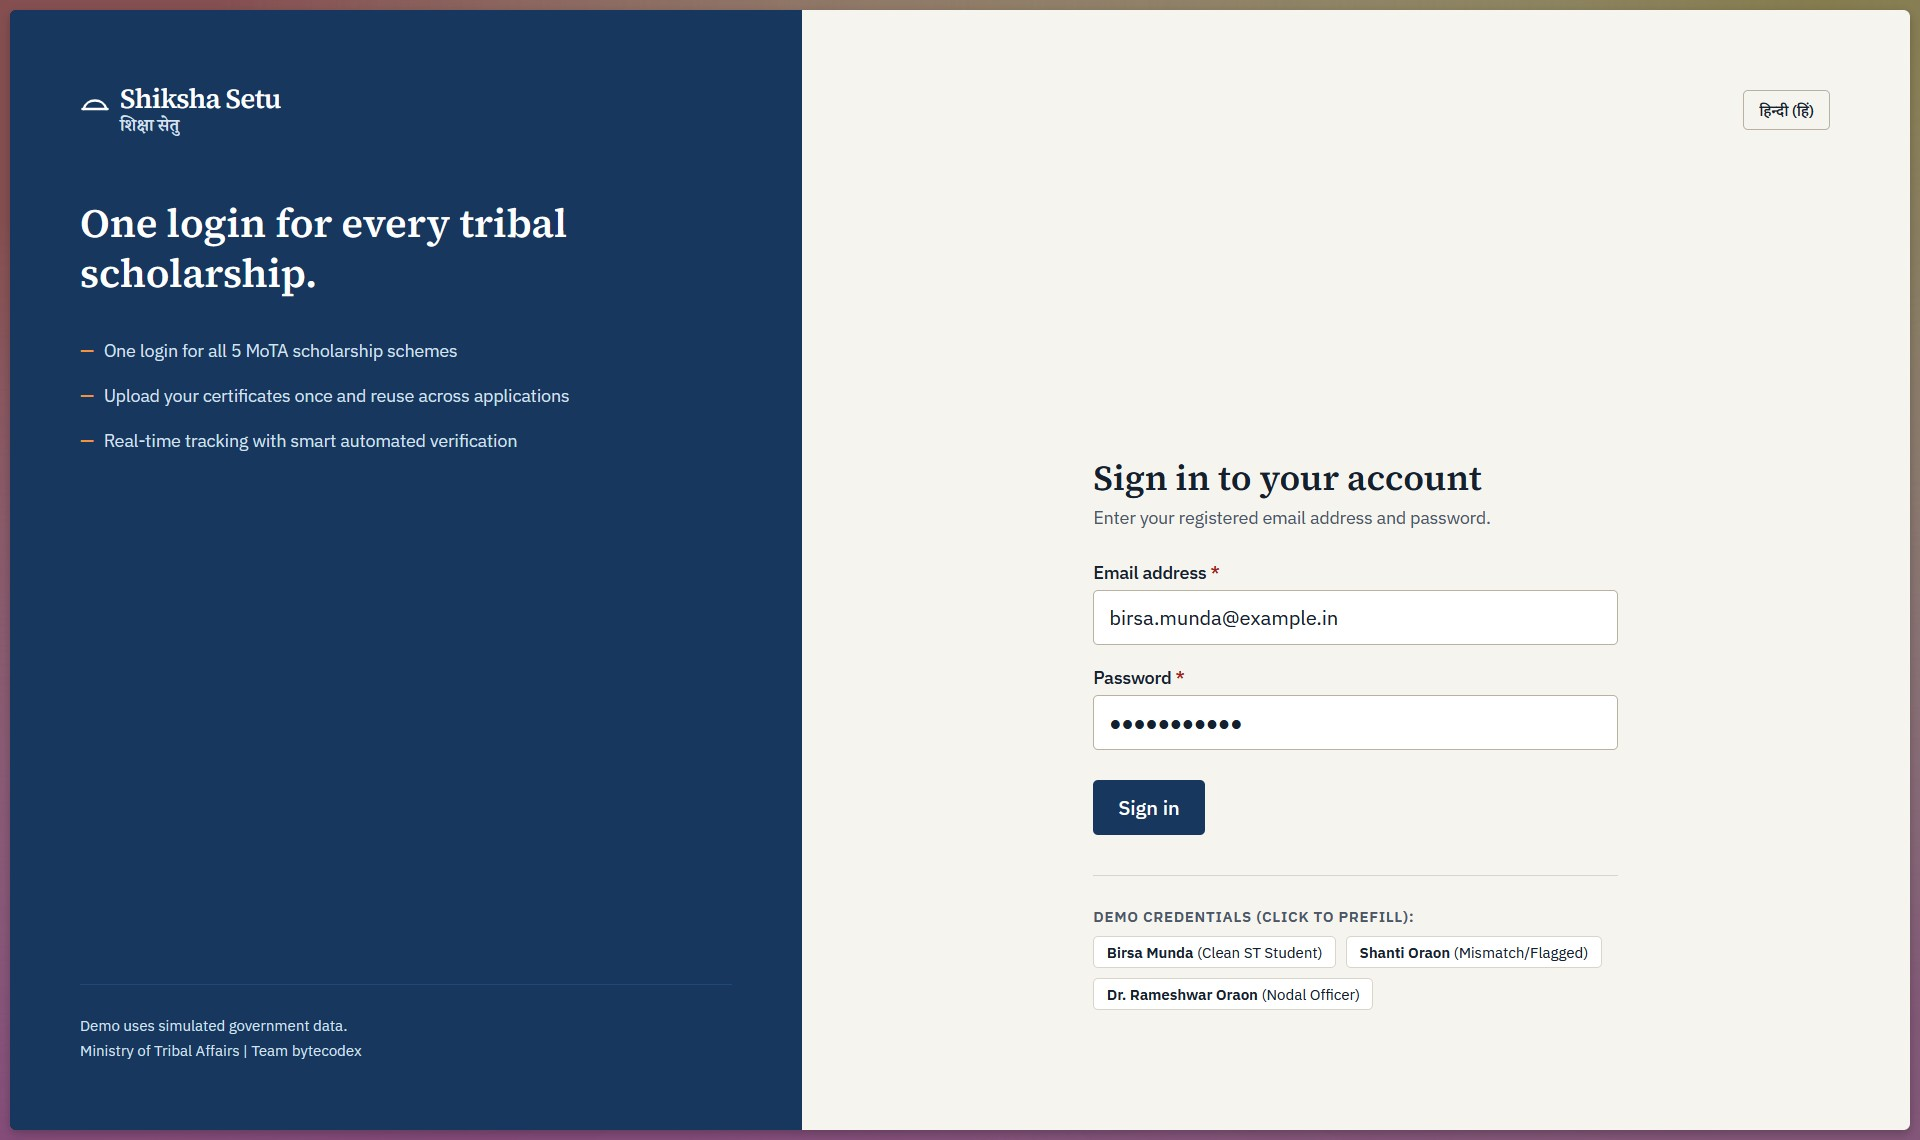
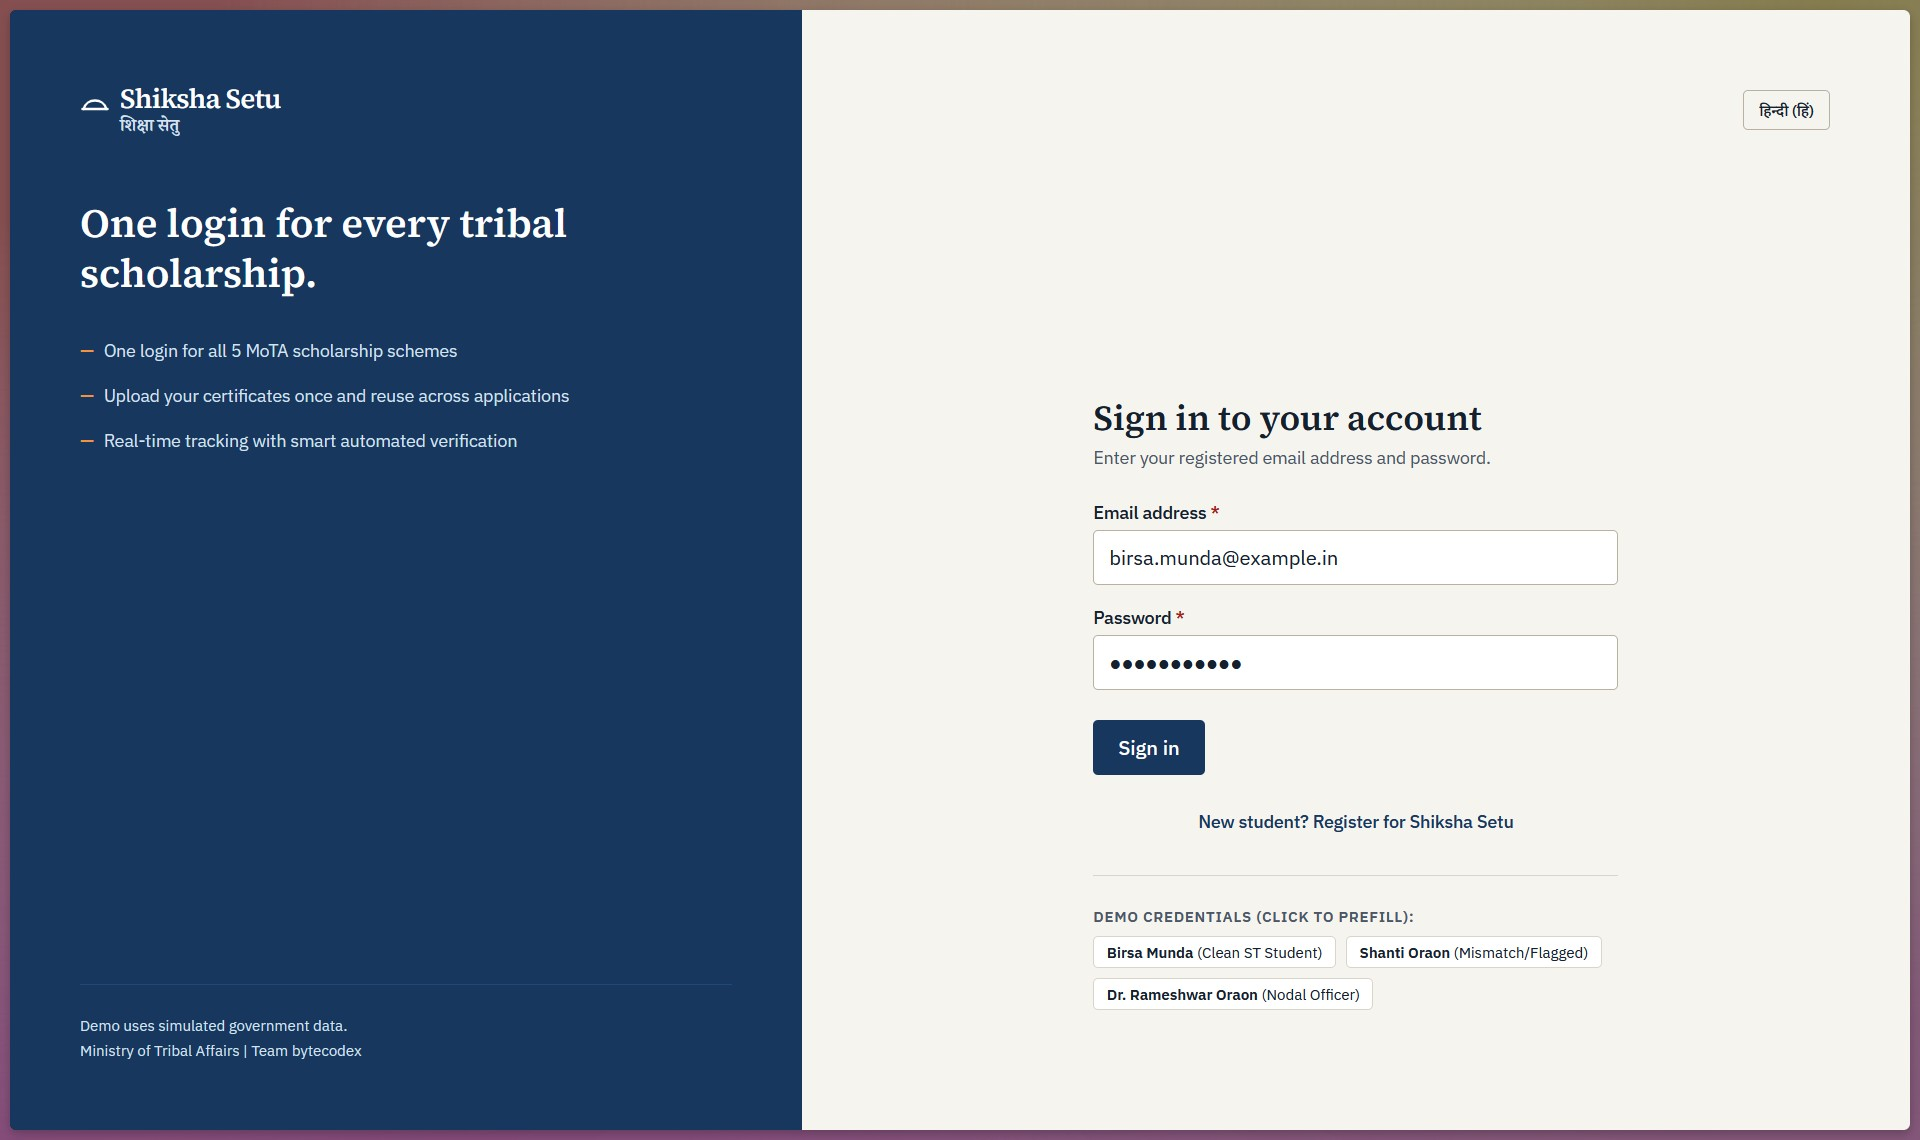
Updated markdowns

Changed region(s): [[0.5625, 0.3377, 0.7812, 0.7368]]

diff --git a/docs/TECHNICAL_DESIGN.md b/docs/TECHNICAL_DESIGN.md
@@ -91,7 +91,8 @@ flowchart TD
     AttachDocs --> Submit["Student Confirms & Submits"]
     
     Submit --> ConsentCheck{"Citizen Consent Active?"}
-    ConsentCheck -- "No" --> PromptConsent["Student Grants Explicit DPDP Consent"] --> AdapterChecks
+    ConsentCheck -- "No" --> PromptConsent["Student Grants Explicit DPDP Consent"]
+    PromptConsent --> AdapterChecks
     ConsentCheck -- "Yes" --> AdapterChecks["Run Multi-Point Smart Auto-Verification"]
     
     subgraph Verification ["Smart Verification Layer"]
@@ -101,7 +102,10 @@ flowchart TD
         AdapterChecks --> V4["NPCI / Bank (Aadhaar Seeding)"]
     end
 
-    V1 & V2 & V3 & V4 --> EvaluateResults{"Any Data Discrepancies?"}
+    V1 --> EvaluateResults{"Any Data Discrepancies?"}
+    V2 --> EvaluateResults
+    V3 --> EvaluateResults
+    V4 --> EvaluateResults
     
     EvaluateResults -- "No (All Pass)" --> StatusVerified["Status: VERIFIED"]
     StatusVerified --> SanctionSim["Auto-approved for Sanction"]
@@ -147,12 +151,12 @@ erDiagram
 
     User {
         ObjectId _id PK
-        string role "student | officer"
+        string role "student, officer"
         string name
         string email UK
         string mobile
         string passwordHash
-        string language "en | hi"
+        string language "en, hi"
         Date createdAt
     }
 
@@ -177,12 +181,12 @@ erDiagram
     Document {
         ObjectId _id PK
         ObjectId userId FK
-        string type "st_certificate | income_cert | marksheet"
+        string type "st_certificate, income_cert, marksheet"
         string originalName
         string storedPath
         boolean encrypted
-        string status "PENDING | VERIFIED | FLAGGED | EXPIRED"
-        string source "STUDENT_UPLOAD | MOCK_DIGILOCKER"
+        string status "PENDING, VERIFIED, FLAGGED, EXPIRED"
+        string source "STUDENT_UPLOAD, MOCK_DIGILOCKER"
         Date uploadedAt
         Date expiresAt
     }
@@ -192,10 +196,10 @@ erDiagram
         string code UK
         string name
         string nameHi
-        string level "Pre-Matric | Post-Matric | Higher Education | Overseas"
+        string level "Pre-Matric, Post-Matric, Higher Ed, Overseas"
         object eligibilityRules
         array requiredDocs
-        string sourcePortal "NSP | SFMP | NOS"
+        string sourcePortal "NSP, SFMP, NOS"
         boolean sample
     }
 
@@ -204,7 +208,7 @@ erDiagram
         string applicationNumber UK
         ObjectId userId FK
         string schemeCode FK
-        string status "DRAFT..DISBURSED_SIMULATED"
+        string status "DRAFT to DISBURSED_SIMULATED"
         object prefilled
         array attachedDocs
         array mismatches
@@ -216,8 +220,8 @@ erDiagram
     VerificationResult {
         ObjectId _id PK
         ObjectId applicationId FK
-        string source "MOCK_DIGILOCKER | MOCK_UDISE.."
-        string status "PASS | MISMATCH | ERROR"
+        string source "MOCK_DIGILOCKER, MOCK_UDISE"
+        string status "PASS, MISMATCH, or ERROR"
         object details
     }
 
@@ -244,7 +248,7 @@ erDiagram
     KnowledgeDoc {
         ObjectId _id PK
         string title
-        string language "en | hi"
+        string language "en, hi"
         string text
         array tags
         string schemeCode
@@ -253,7 +257,7 @@ erDiagram
     Notification {
         ObjectId _id PK
         ObjectId userId FK
-        string type "STATUS_CHANGE | DEFICIENCY | SANCTION | DEADLINE"
+        string type "STATUS_CHANGE, DEFICIENCY, SANCTION, DEADLINE"
         string title
         string message
         string messageHi
@@ -265,8 +269,8 @@ erDiagram
     AuditLog {
         ObjectId _id PK
         ObjectId actorId FK
-        string action "AUTH_LOGIN | SUBMIT_APPLICATION | OFFICER_DECISION"
-        string entity "User | Document | Application"
+        string action "AUTH_LOGIN, SUBMIT_APPLICATION, OFFICER_DECISION"
+        string entity "User, Document, Application"
         string entityId
         object meta
         Date at

diff --git a/docs/DEMO.md b/docs/DEMO.md
@@ -16,22 +16,26 @@ This script provides evaluators and judges with a concise, 5-minute step-by-step
 
 ## 5-Minute Walkthrough Flow
 
-### Minute 1: The Problem & The Unified Student Login
+### Minute 1: The Problem & The Unified Student Access
 1. Open the application at `http://localhost:3000`.
 2. Point out the calm, trustworthy government aesthetic (PART B compliant, zero gradients, typographic bridge glyph wordmark).
 3. Toggle the language switch at the top right from **English** to **हिन्दी** to show native bilingual localization without Latin remnants.
-4. Click the prefill button for **Birsa Munda** (`birsa.munda@example.in`) and click **Sign in**.
-5. Observe the Student Home:
+4. *(Optional Walkthrough)*: Click **"New student? Register here"** to demonstrate the self-service student onboarding form (`/register`) capturing academic, demographic, UDISE+, and APAAR identity fields.
+5. Click the prefill button for **Birsa Munda** (`birsa.munda@example.in`) and click **Sign in**.
+6. Observe the Student Home:
    - Plain summary sentence: *"X applications in progress, Y need your action, Z schemes you may be eligible for."*
    - Expand the application row to see the **5-stage progress Stepper** with square markers (Submitted → Verification → Review → Sanction → Payment).
    - Point out the **Scheme Conflict Warning** (*"Cannot be held together with Post-Matric, sample rule"*).
 
-### Minute 2: Document Wallet & Reusability
-1. Navigate to **Documents** in the navigation bar.
-2. Observe the verified documents in the wallet (`st_certificate`, `income_certificate`, `marksheet`).
-3. Note that certificates are encrypted on disk with **AES-256-GCM**.
-4. Click **View** on any document to test inline decrypted viewing.
-5. Emphasize: *"Tribal students upload documents once and reuse them across all 5 MoTA scholarship portals."*
+### Minute 2: Document Wallet & Verified Student Profile
+1. Navigate to **Documents** in the navigation bar:
+   - Observe the verified documents in the wallet (`st_certificate`, `income_certificate`, `marksheet`).
+   - Note that certificates are encrypted on disk with **AES-256-GCM**.
+   - Click **View** on any document to test inline decrypted viewing.
+   - Emphasize: *"Tribal students upload documents once and reuse them across all 5 MoTA scholarship portals."*
+2. Navigate to **Profile** (`/profile`):
+   - Review live simulated government registry status badges: **DigiLocker** (Caste), **e-District** (Income), **UDISE+** (Enrolment), and **PFMS** (Aadhaar-seeded bank account).
+   - Students can update their academic details directly with immediate audit logging.
 
 ### Minute 3: Smart Verification & Non-Destructive Flagging
 1. Log out and sign in as **Shanti Oraon** (`shanti.oraon@example.in`).

diff --git a/README.md b/README.md
@@ -21,6 +21,10 @@
 |---|---|
 | ![Student Dashboard English](./docs/screenshots/Student-home-english.jpg) | ![Student Dashboard Hindi](./docs/screenshots/Student-home-hindi.jpg) |
 
+| Student Registration & Onboarding | Student Profile (Simulated Registries) |
+|---|---|
+| ![Student Registration](./docs/screenshots/Shiksha-setu-register-page.jpg) | ![Student Profile](./docs/screenshots/Student-profile-page.jpg) |
+
 | Smart Verification (Non-Destructive Flagging) | Document Wallet (AES-256-GCM Encrypted) |
 |---|---|
 | ![Application Flagged Review](./docs/screenshots/Student-application-flagged.jpg) | ![Document Wallet](./docs/screenshots/Student-documents-page.jpg) |
@@ -33,7 +37,7 @@
 |---|---|
 | ![JAGO AI Assistant](./docs/screenshots/Student-jago-ai.jpg) | ![Officer Analytics](./docs/screenshots/Officer-analytics-page.jpg) |
 
-> 📁 *All 13 high-resolution screen captures are available in the **[`docs/screenshots/`](./docs/screenshots/)** directory.*
+> 📁 *All 15 high-resolution screen captures are available in the **[`docs/screenshots/`](./docs/screenshots/)** directory.*
 
 ---
 
@@ -159,8 +163,8 @@ shiksha-setu/
 │   │   ├── components/         # TopBar, StudentNav, OfficerSidebar, OfflineBanner
 │   │   ├── context/            # AuthContext (stateless JWT session state)
 │   │   ├── i18n/               # Complete English & Hindi dictionary mappings
-│   │   ├── pages/              # StudentHome, SchemesDirectory, SchemeApply, Wallet,
-│   │   │                       # OfficerQueue, CoverageGapFinder, OfficerAnalytics, Login
+│   │   ├── pages/              # StudentHome, SchemesDirectory, SchemeApply, Wallet, Profile,
+│   │   │                       # OfficerQueue, CoverageGapFinder, OfficerAnalytics, Login, Register
 │   │   ├── services/           # api.js (Axios/fetch client)
 │   │   ├── ui/                 # Accessible UI components (Badge, Button, Stepper, JagoPanel)
 │   │   ├── App.jsx             # Role-based route definitions and layouts

diff --git a/docs/API.md b/docs/API.md
@@ -72,6 +72,27 @@ Authenticates with email and password, returning a JWT token.
 Retrieves current authenticated session user and profile.
 - **Access:** Authenticated (`student` or `officer`)
 
+### `PUT /auth/profile`
+Updates the authenticated student's profile details (institution, course, year, state, district, income, bank reference, etc.).
+- **Access:** Student only
+- **Request Body:** Partial or complete `StudentProfile` fields (e.g. `{ "institution": "Birsa Institute of Tech", "year": 3, "familyIncome": 160000 }`)
+- **Response `200 OK`:**
+```json
+{
+  "success": true,
+  "data": {
+    "profile": {
+      "_id": "673f8a...",
+      "userId": "673f8a...",
+      "fullName": "Birsa Munda",
+      "institution": "Birsa Institute of Tech",
+      "year": 3,
+      "familyIncome": 160000
+    }
+  }
+}
+```
+
 ---
 
 ## 2. Digital Document Wallet Endpoints
@@ -213,3 +234,38 @@ Answers citizen queries regarding eligibility, application tracking, and documen
 }
 ```
 *(Contains prompt injection defenses; queries restricted strictly to authenticated student's data).*
+
+---
+
+## 7. Notification Endpoints
+
+### `GET /notifications`
+Retrieves in-app status updates, deficiency alerts, and sanction notices for the authenticated user, along with the unread count.
+- **Access:** Authenticated
+- **Response `200 OK`:**
+```json
+{
+  "success": true,
+  "data": {
+    "notifications": [
+      {
+        "_id": "673f...",
+        "type": "STATUS_CHANGE",
+        "title": "Application Under Review",
+        "message": "Your application MOTA-2026-10001 has been flagged for empathetic manual review.",
+        "readAt": null,
+        "createdAt": "2026-10-21T06:00:00.000Z"
+      }
+    ],
+    "unreadCount": 1
+  }
+}
+```
+
+### `PATCH /notifications/:id/read`
+Marks a single notification as read.
+- **Access:** Authenticated
+
+### `PATCH /notifications/read-all`
+Marks all notifications as read for the authenticated user.
+- **Access:** Authenticated
